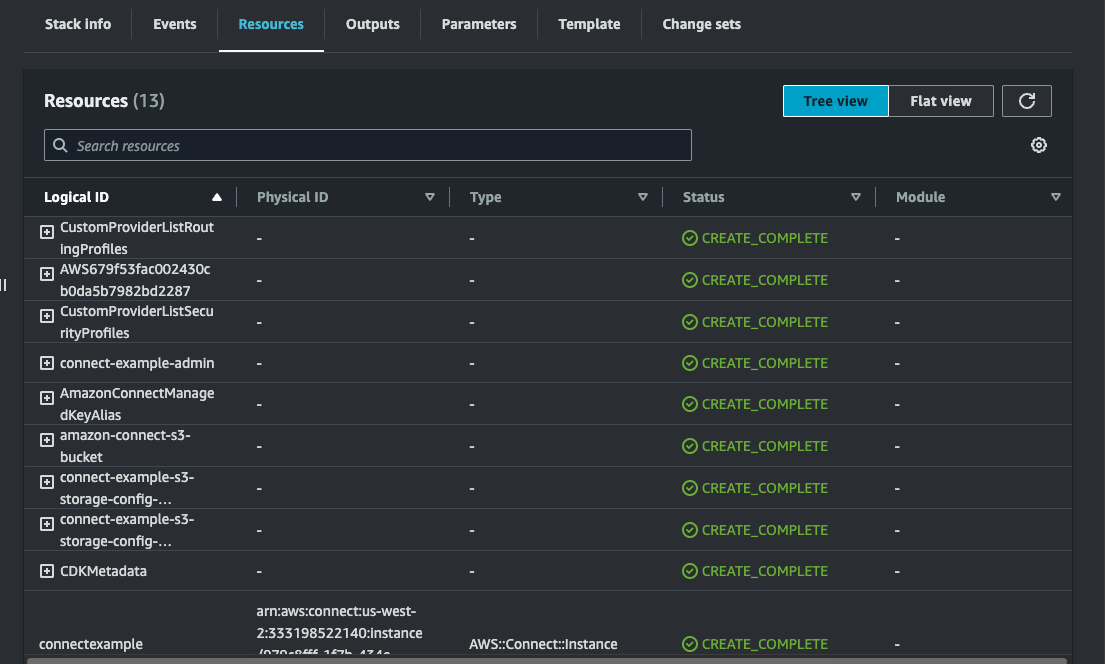
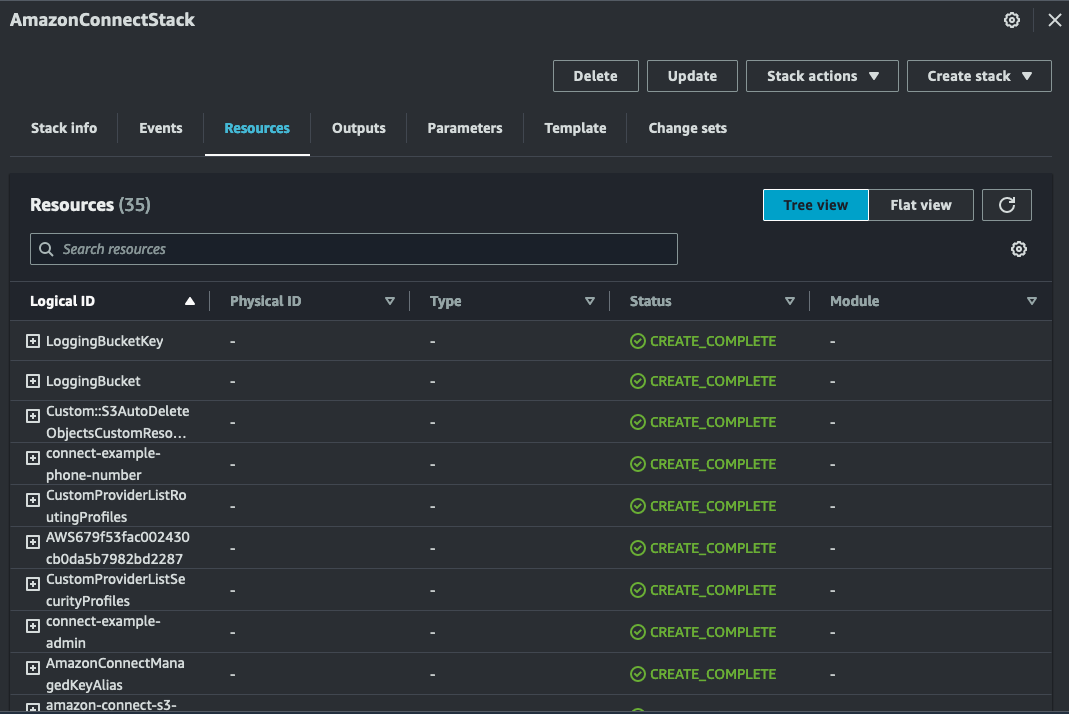
Updated README.md and CFN Image

diff --git a/README.md b/README.md
@@ -81,7 +81,8 @@ cdk deploy --no-previous-parameters --parameters connectInstanceAlias=<Unique Al
 ## Verify
 Make sure you are in the right AWS account and region.
 
-[AWS CloudFormation](https://us-west-2.console.aws.amazon.com/cloudformation/home) will create similar to below resources.
+[AWS CloudFormation](https://us-west-2.console.aws.amazon.com/cloudformation/home) will create similar to below resources 
+<br> Note: Not all the resources are shown in the screenshot below.
 ![AWSCloudformation_Resources.png](AWSCloudformation_Resources.png)
 
 ## Testing
